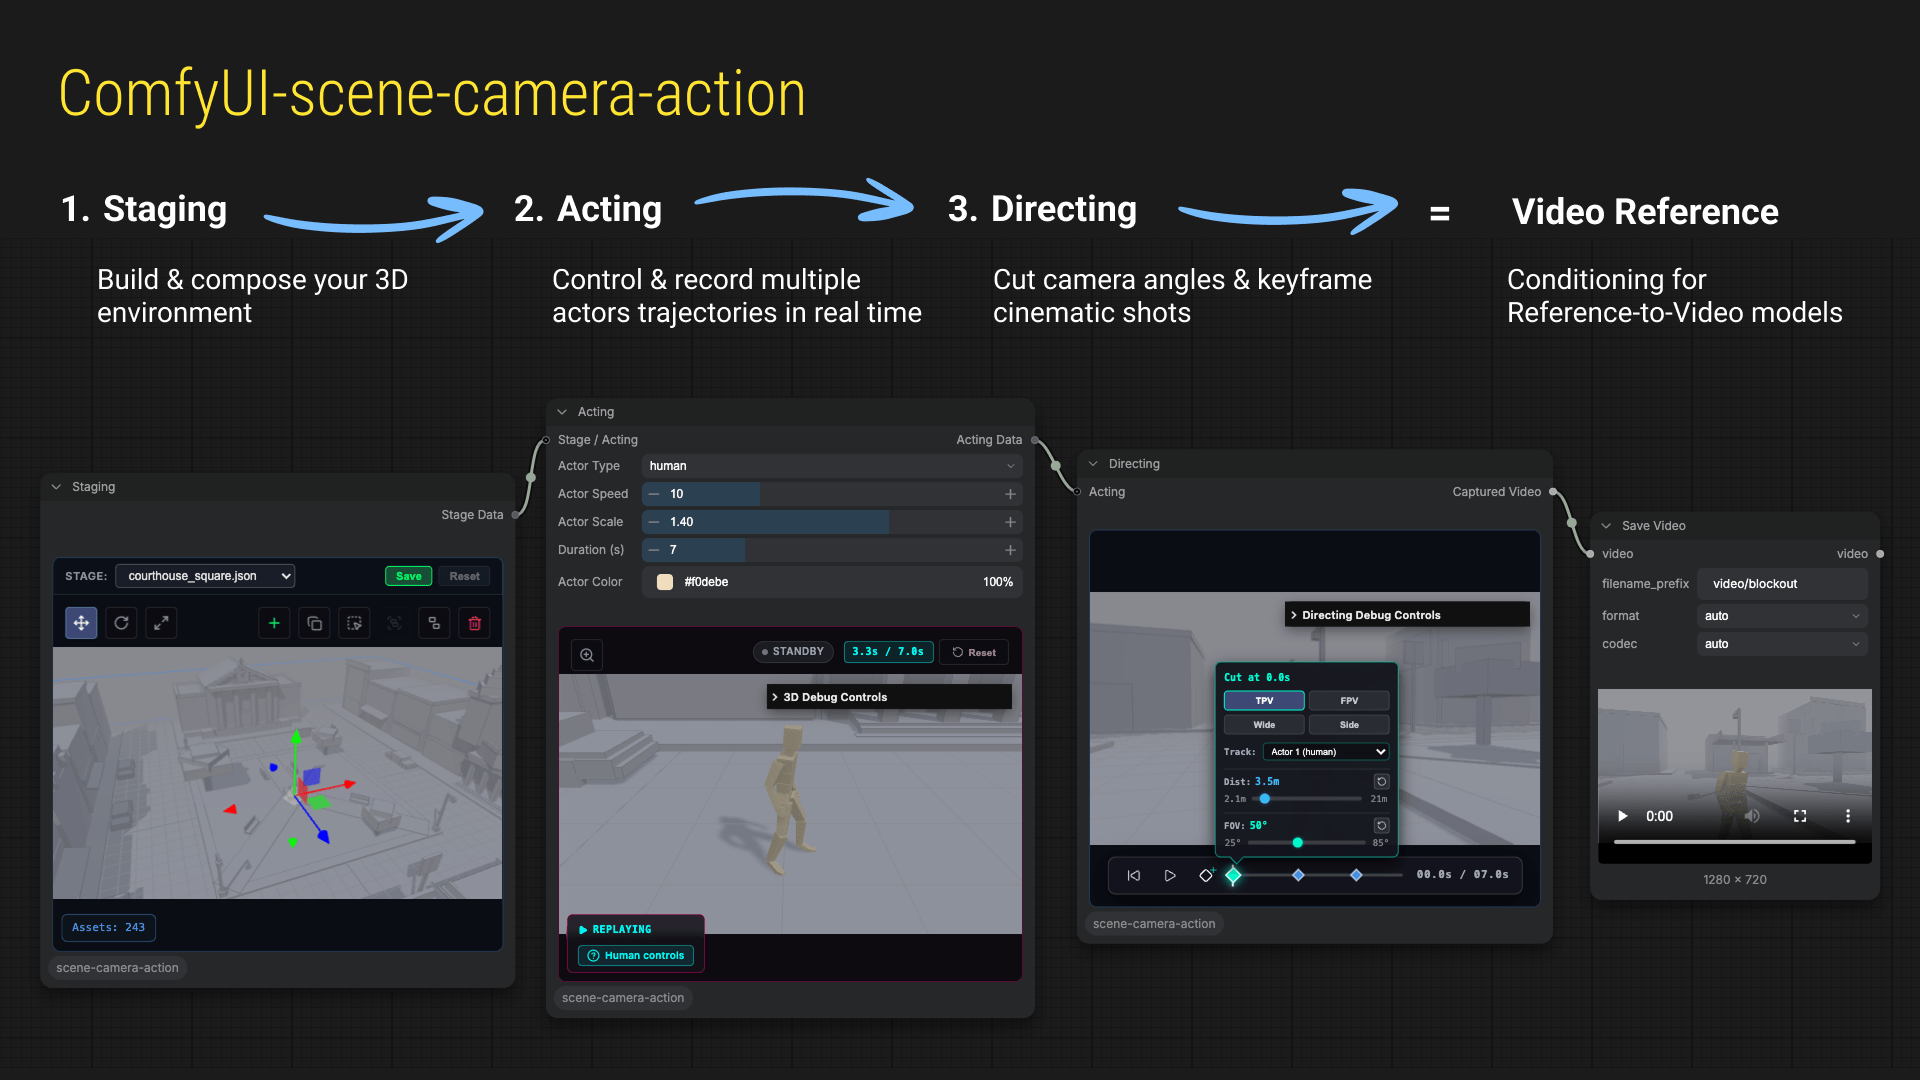
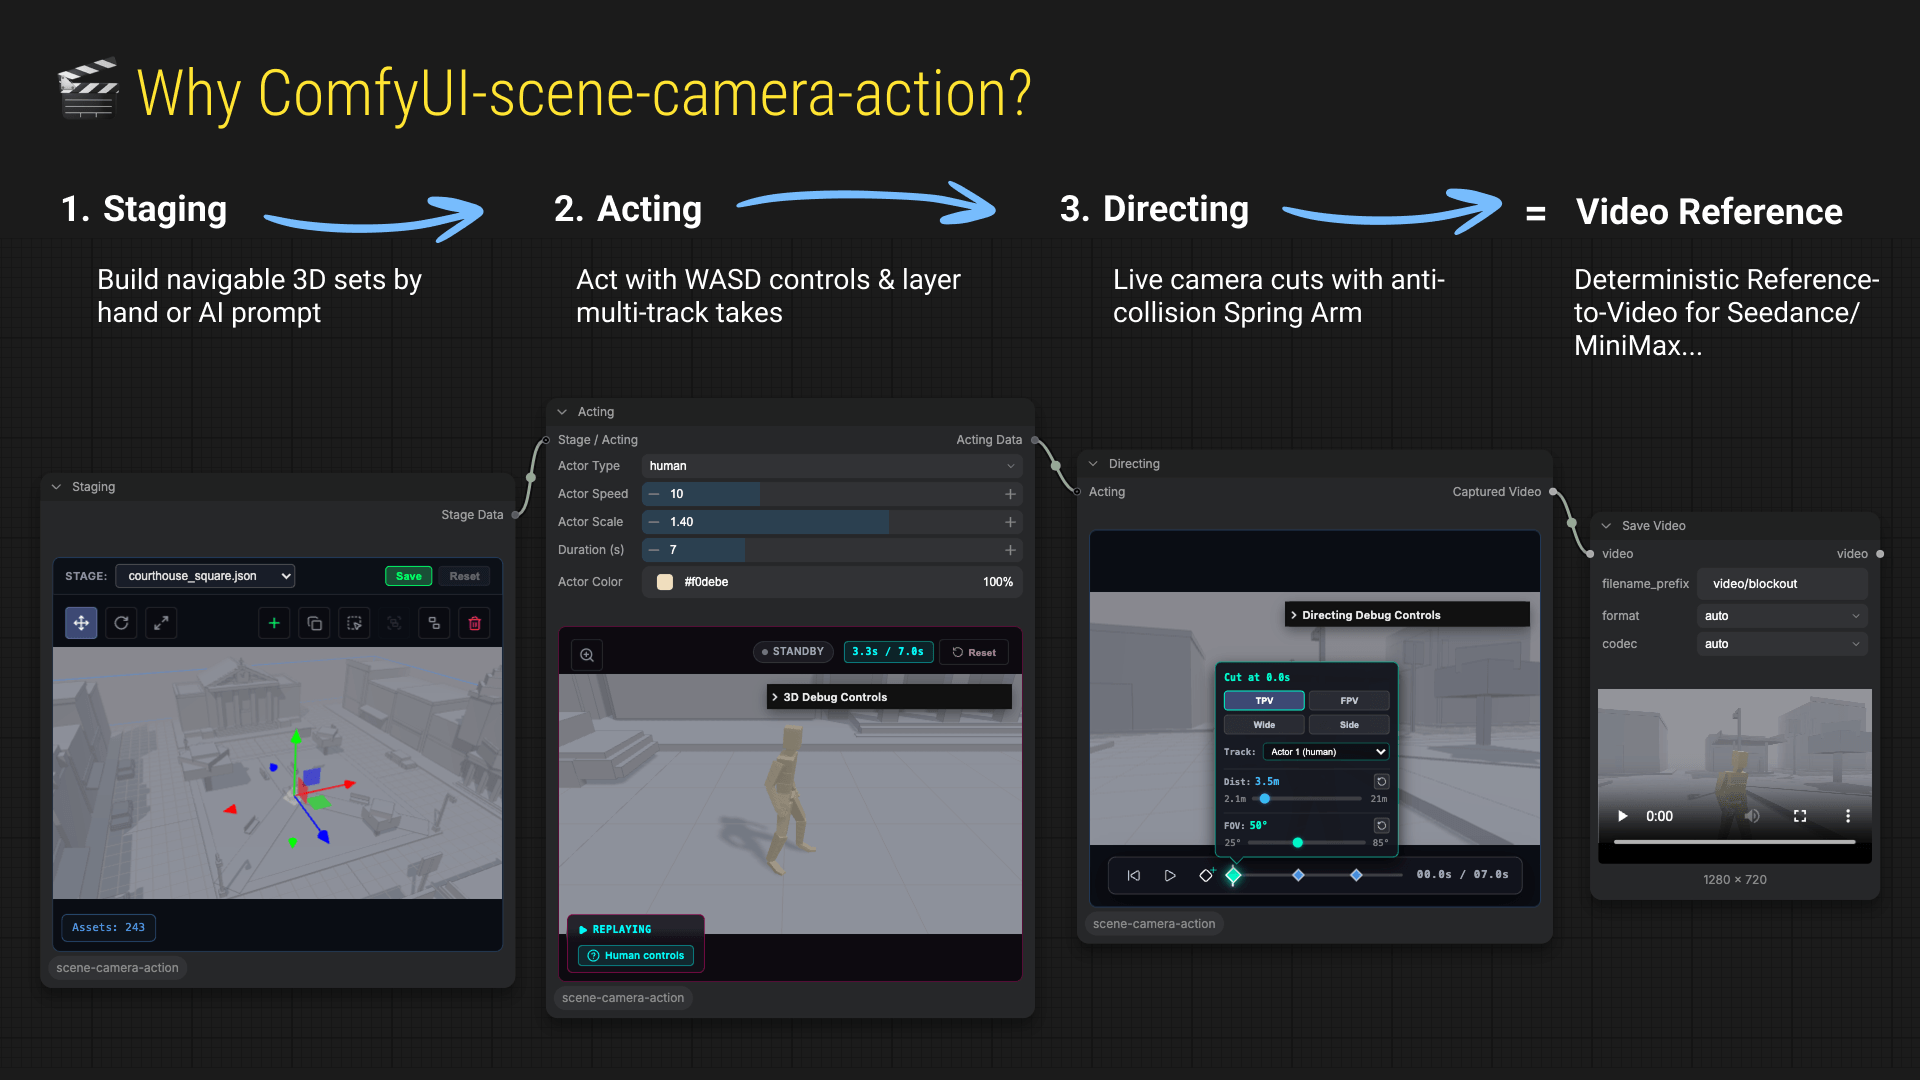
docs: update README documentation and preview image with comprehensive workflow features and node breakdown

diff --git a/README.md b/README.md
@@ -1,11 +1,15 @@
 # ComfyUI-scene-camera-action
-
-> [!NOTE]
-> **ComfyUI-scene-camera-action (v0.5.0)** by [@arturitu](https://github.com/arturitu) / [Unboring.net](https://unboring.net).
+by [@arturitu](http://linkedin.com/in/arturoparacuellos) / [Unboring.net](https://unboring.net).
 
 An interactive 3D scene staging, actor acting, and camera directing suite of custom nodes for **ComfyUI**.
 
-Build your 3D environment, control and record actor movements in real time using your keyboard, and compose live camera cuts between multiple camera angles (TPV, FPV, Wide, Side) to generate high-fidelity reference video and stage imagery for reference-to-video (such as Seedance or MiniMax) workflows.
+Stop prompting movement into a black box. **ComfyUI-scene-camera-action** turns AI video generation into a directable, playable studio:
+
+- **1. Staging:** Build navigable 3D blockout sets with instant colliders — manually or via AI prompts (`SKILL.md`).
+- **2. Acting:** Playable `WASD` controls & multi-track actor chaining with live ghost replays (no keyframing).
+- **3. Directing:** Live camera cuts with anti-collision **Spring Arm**, outputting 720p HD reference video (`VIDEO`) for models like Wan, HunyuanVideo, or MiniMax.
+
+👉 *See full details and controls in the [Workflow Nodes Breakdown](#workflow-nodes-breakdown).*
 
 ![Preview](scene-camera-action.png)
 
@@ -61,6 +65,7 @@ https://github.com/user-attachments/assets/fde67050-c33d-406c-87e5-64b9d0544381
 
 ---
 
+<a id="workflow-nodes-breakdown"></a>
 ## 🛠 Workflow Nodes Breakdown (`scene-camera-action`)
 
 https://github.com/user-attachments/assets/dd5c0d21-573a-467f-9d4b-1218e2c90cac
@@ -70,23 +75,24 @@ Build your 3D environment by placing, editing, grouping, duplicating, and transf
 - **Interactive 3D Viewport**: Orbit, pan, and zoom using standard MapControls.
 - **Hierarchical Selection & Grouping**: Select multiple items with `Shift + Click`, group (`Group`) or ungroup (`Ungroup`) complex structures.
 - **3D Transform Gizmos**: Move, rotate, and scale assets on all axes with optional `Shift` snapping.
-- **Asset Duplication (`❐`)**: Instantly clone selected assets or groups.
+- **Asset Duplication**: Instantly clone selected assets or groups.
 - **Preset Loader**: Load built-in 3D scenes or custom JSON presets directly from the UI dropdown.
 - **Output**: Sends `Stage Data` downstream to the Acting node.
 
 ### 2. Acting (`ActingNode`)
-Control actors in real time and record movement trajectories across the 3D stage:
-- **Archetype & Scale**: Choose between **Human** (rigged humanoid), **Car** (vehicle physics), and **Quadruped** (4-legged animal), with dynamic actor scaling ($0.2\times - 3.0\times$).
-- **Practice & Recording**: Rehearse movement loops in practice mode and record trajectories in real time using `WASD` / arrow keys.
-- **Speed, Color & Duration**: Configure locomotion speed ($1.0 - 30.0$), actor identification colors, and recording duration ($4.0\text{s} - 15.0\text{s}$).
-- **Output**: Combines scene geometry, actor archetypes, and chained trajectories into `Acting Data`.
+Play and record actor performances in real time across the 3D stage:
+- **Game-Like WASD Controls**: Drive vehicles or move characters in real time with physics and collision detection. Includes a **Practice Rehearsal Mode** to test movement loops before recording.
+- **Multi-Track Actor Chaining**: Connect multiple Acting nodes in series. Sequence and choreograph independent actors while watching live synchronized ghost replays of previous takes.
+- **3 Actor Archetypes**: **Human** & **Quadruped** (rigged with animations based on [Mesh2Motion](https://github.com/Mesh2Motion/mesh2motion-app)), and **Car** (vehicle steering physics).
+- **Customization & Scale**: Adjust actor scales dynamically ($0.3\times - 2.0\times$), color-code actors for easy identification, and customize movement speeds.
+- **Output**: Combines stage geometry, actor rigs, and chained trajectories into `Acting Data`.
 
 ### 3. Directing (`DirectingNode`)
 Compose your cinematic sequence with live multi-camera cuts along a visual playback timeline:
-- **Smart Multi-Camera Shots**: TPV, FPV, Tracking Side, and Auto-Framing Master Wide with anti-collision **Spring Arm** obstacle avoidance.
-- **Dynamic Framing & Distance**: Per-shot camera distance controls, auto-framing, and smooth actor tracking.
-- **Timeline Keyframing**: Add, move, and edit camera cuts with real-time multi-actor preview and pause freeze.
-- **Output**: Sends 720p HD `Captured Video` (`VIDEO`) directly downstream to reference-to-video models (such as Seedance or MiniMax).
+- **Anti-Collision Spring Arm**: Real-time obstacle avoidance prevents camera clipping against walls and geometry during dynamic camera moves.
+- **Smart Multi-Camera Rigs**: Switch between TPV (Third-Person), FPV (First-Person), Tracking Side, and Auto-Framing Master Wide.
+- **Visual Cut Timeline**: Add, move, and edit camera cuts on the fly with live multi-actor playback and pause freeze.
+- **Direct-to-Generative Output**: Sends 720p HD `Captured Video` (`VIDEO`) directly downstream to reference-to-video models (such as Wan, HunyuanVideo, MiniMax, or Seedance).
 
 ---
 
